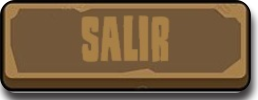
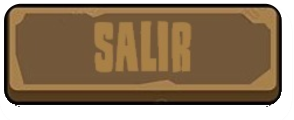
Entrega semana 5

diff --git a/src/main/Window.java b/src/main/Window.java
@@ -33,7 +33,9 @@ public class Window {
 
         startButton = new JButton("Iniciar");
         startButton.setIcon(startIcon);
-        startButton.setBounds(514,418,252,100);
+        startButton.setBounds(514,418,294,120);
+        startButton.setMargin(new Insets(0, 0, 0, 0));
+        startButton.setBorder(null);
         startButton.addActionListener(new ActionListener() {
             @Override
             public void actionPerformed(ActionEvent e) {
@@ -44,7 +46,9 @@ public class Window {
 
         exitButton = new JButton("Cerrar");
         exitButton.setIcon(exitlIcon);
-        exitButton.setBounds(514,536,252,100);
+        exitButton.setBounds(514,536,294,120);
+        exitButton.setMargin(new Insets(0, 0, 0, 0));
+        exitButton.setBorder(null);
         exitButton.addActionListener(new ActionListener() {
             @Override
             public void actionPerformed(ActionEvent e) {
